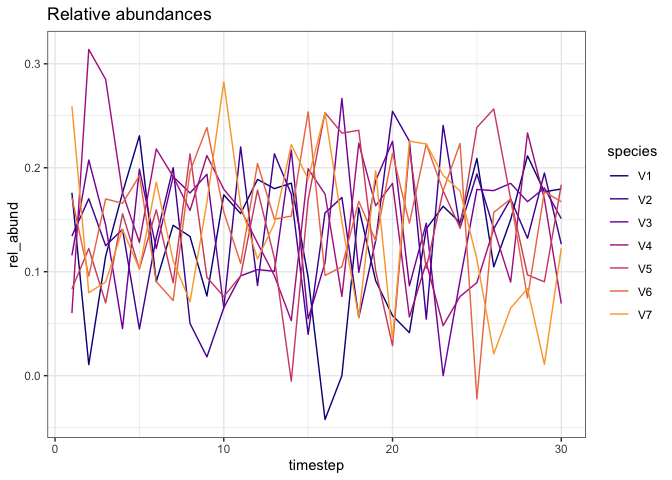
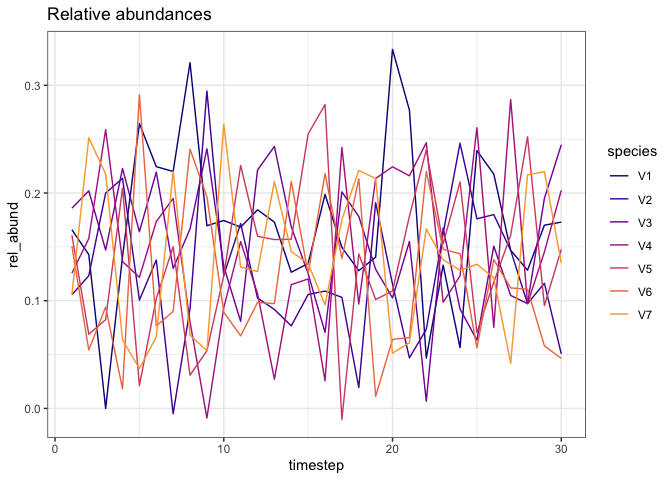
seed 37 works for all the things

diff --git a/analysis/sim_data.md b/analysis/sim_data.md
@@ -36,9 +36,3 @@ Noise
 -----
 
 ![](sim_data_files/figure-markdown_github/noise-1.png)
-
-![](sim_data_files/figure-markdown_github/plot%20directional%20changepoint-1.png)
-
-![](sim_data_files/figure-markdown_github/plot%20dc%20means-1.png)
-
-![](sim_data_files/figure-markdown_github/best-1.png)
